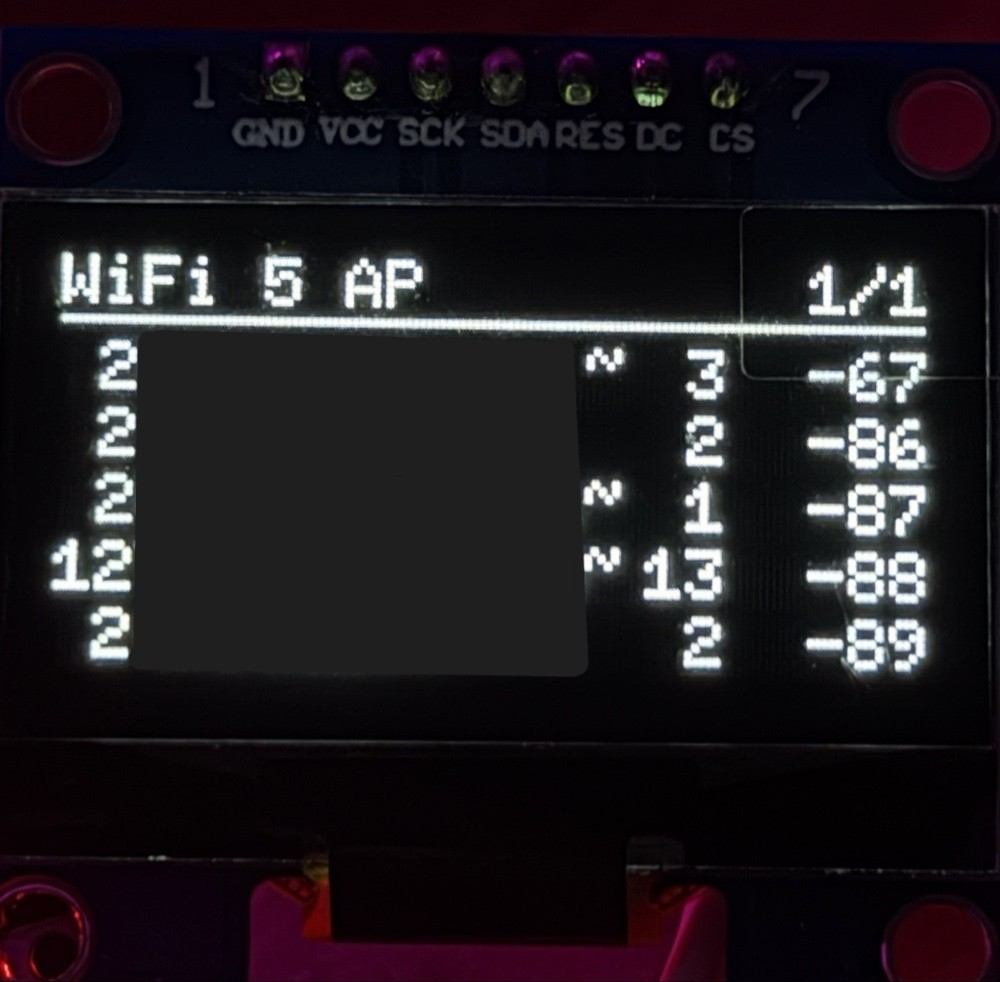
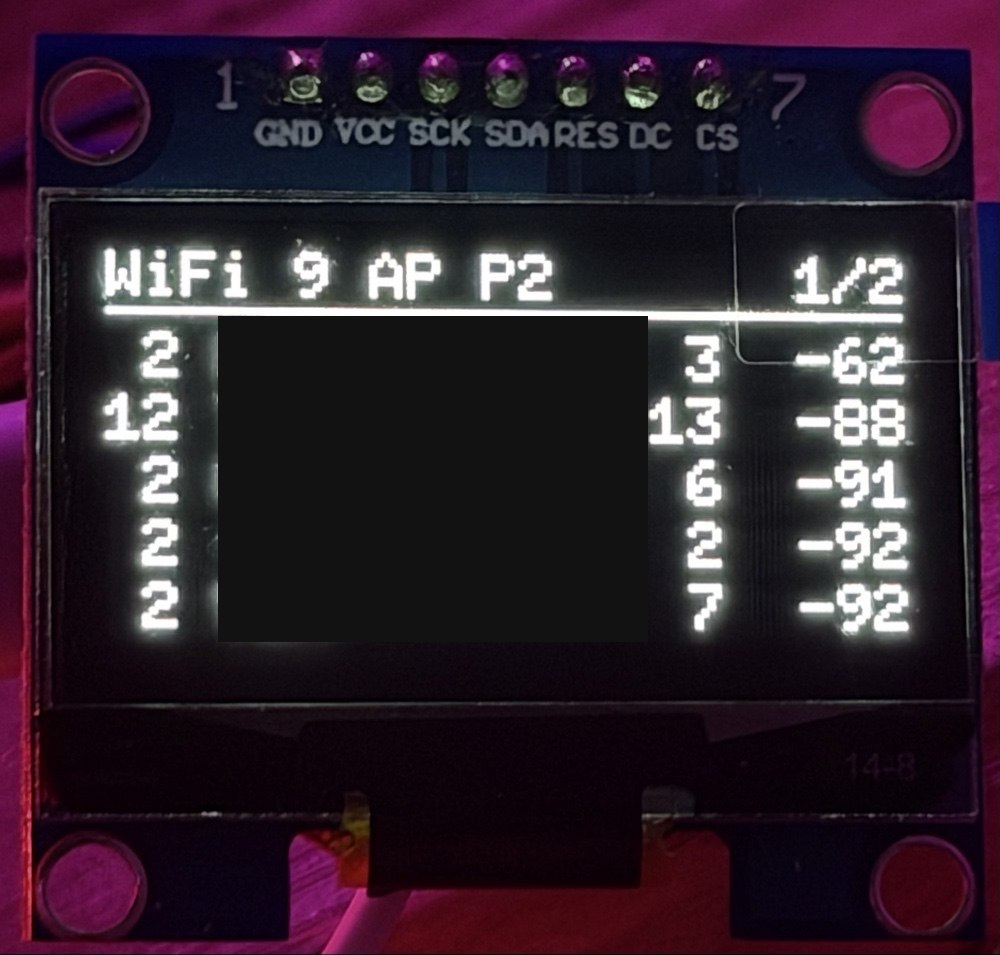
Fix a race in deauth slot evaluation and report every burst in a sweep
evaluateDeauth() read a slot's generation before its counters. If the RX
callback recycled that slot in between, the generation check passed on the
stale value while the counters were already reset, so the difference against
the previous snapshot underflowed and read as an enormous burst.

The whole slot is now copied under the spinlock, so generation and counts
come from one instant. Recycling zeroes the counters inside the same critical
section, and the plain increments on the hot path are monotonic, so they can
only raise a count, never desynchronise the pair. A second guard treats any
counter that moved backwards as a recycle, since a monotonic counter cannot
decrease on its own.

The serial output also used to mention only the last burst of a sweep while
the display marked every affected network, so the tool knew more than it
said. It now appends how many other networks had a burst in the same sweep.

Both photos in the README are updated and network names are redacted in each.
The deauth one is labelled as what it is: a test with the threshold lowered
to 1 and the author disconnecting his own phone, not an observed event.

diff --git a/promiscsource.cpp b/promiscsource.cpp
@@ -53,7 +53,8 @@ static volatile uint32_t s_disassocTotal  = 0;
 static volatile uint32_t s_broadcastTotal = 0;
 static volatile uint32_t s_recycled       = 0;   // kolikrát se slot přepsal
 
-// Zámek chrání JEN pole bssid[] ve slotech, nic jiného.
+// Zámek chrání identitu slotu a nulování jeho počítadel při recyklaci — tedy
+// vše, co se u slotu mění naráz a musí k sobě patřit.
 //
 // Šest bajtů MAC adresy se atomicky zapsat nedá, a kdyby loop() přečetlo
 // adresu uprostřed přepisu, přiřadilo by počty špatné síti — a to už není
@@ -356,16 +357,45 @@ bool PromiscSource::poll() {
 }
 
 void PromiscSource::evaluateDeauth(uint32_t now) {
-  // Identity si okopírujeme pod zámkem, počítadla mimo něj — ta jsou
-  // 32bitová a atomická, takže se přečtou celá. Kritická sekce je tak jen
-  // 12 × 6 bajtů a žádné volání uvnitř.
-  uint8_t bssids[DEAUTH_SLOTS][6];
+  // KONZISTENTNÍ SNÍMEK CELÉHO SLOTU POD ZÁMKEM.
+  //
+  // Dřív se pod zámkem braly jen adresy a počítadla se četla až mimo něj.
+  // To mělo závodní podmínku: kdyby callback mezi čtením generace a čtením
+  // počítadel slot recykloval, prošla by kontrola generace ještě se starou
+  // hodnotou, ale počítadla by se přečetla už vynulovaná. Rozdíl 0 - prev_
+  // by podtekl na obrovské číslo a vyhodnotil se jako gigantický náraz.
+  //
+  // Recyklace nuluje počítadla uvnitř kritické sekce (viz countDeauth), takže
+  // když se generace i počty přečtou taky pod zámkem, patří k sobě. Prosté
+  // inkrementy z horké cesty zámek neberou, ale ty jsou monotónní — můžou
+  // hodnotu jen zvýšit, nikdy nerozhodit dvojici generace/počet.
+  //
+  // Cena je 12 × 32 bajtů kopírování navíc: samá přiřazení a memcpy šesti
+  // bajtů, žádný cyklus s voláním uvnitř.
+  struct Snap {
+    uint8_t  bssid[6];
+    uint32_t generation;
+    uint32_t deauth;
+    uint32_t disassoc;
+    uint32_t broadcast;
+    uint16_t lastReason;
+    uint8_t  channel;
+    bool     signedAsAp;
+  };
+  Snap    snap[DEAUTH_SLOTS];
   uint8_t used;
 
   portENTER_CRITICAL(&s_slotMux);
   used = s_slotsUsed;
   for (uint8_t i = 0; i < used; i++) {
-    memcpy(bssids[i], s_slots[i].bssid, sizeof(bssids[i]));
+    memcpy(snap[i].bssid, s_slots[i].bssid, sizeof(snap[i].bssid));
+    snap[i].generation = s_slots[i].generation;
+    snap[i].deauth     = s_slots[i].deauth;
+    snap[i].disassoc   = s_slots[i].disassoc;
+    snap[i].broadcast  = s_slots[i].broadcast;
+    snap[i].lastReason = s_slots[i].lastReason;
+    snap[i].channel    = s_slots[i].channel;
+    snap[i].signedAsAp = s_slots[i].signedAsAp;
   }
   portEXIT_CRITICAL(&s_slotMux);
 
@@ -374,43 +404,51 @@ void PromiscSource::evaluateDeauth(uint32_t now) {
   nets_.clearDeauthFlags();
   burstOnRecord_ = false;
   newBurst_      = -1;
+  burstCount_    = 0;
 
   for (uint8_t i = 0; i < used; i++) {
-    const uint32_t gen = s_slots[i].generation;
-    const uint32_t de  = s_slots[i].deauth;
-    const uint32_t di  = s_slots[i].disassoc;
-    const uint32_t bc  = s_slots[i].broadcast;
+    // Pojistka nad rámec snímku: monotónní počítadlo klesnout nemůže, takže
+    // nižší hodnota než minule je jednoznačná známka, že se slot pod rukama
+    // přepsal. Rozdíl se pak nebere, aby z podtečení nevyšel falešný náraz.
+    const bool wentBackwards = (snap[i].deauth    < prev_[i].deauth)
+                            || (snap[i].disassoc  < prev_[i].disassoc)
+                            || (snap[i].broadcast < prev_[i].broadcast);
 
-    if (gen != prev_[i].generation) {
+    if (snap[i].generation != prev_[i].generation || wentBackwards) {
       // Slot mezitím dostal jiné BSSID. Předchozí hodnoty patřily někomu
       // jinému, takže se zahodí — jinak by z nich vyšel nesmyslný rozdíl.
-      prev_[i].generation = gen;
-      prev_[i].deauth     = 0;
-      prev_[i].disassoc   = 0;
-      prev_[i].broadcast  = 0;
+      prev_[i].generation = snap[i].generation;
+      prev_[i].deauth     = snap[i].deauth;
+      prev_[i].disassoc   = snap[i].disassoc;
+      prev_[i].broadcast  = snap[i].broadcast;
       prev_[i].burstAtMs  = 0;
+      continue;   // v téhle otočce se z tohohle slotu nic nevyhodnocuje
     }
 
-    const uint32_t dDeauth = de - prev_[i].deauth;
-    const uint32_t dDisas  = di - prev_[i].disassoc;
-    const uint32_t dBcast  = bc - prev_[i].broadcast;
+    const uint32_t dDeauth = snap[i].deauth    - prev_[i].deauth;
+    const uint32_t dDisas  = snap[i].disassoc  - prev_[i].disassoc;
+    const uint32_t dBcast  = snap[i].broadcast - prev_[i].broadcast;
 
-    prev_[i].deauth    = de;
-    prev_[i].disassoc  = di;
-    prev_[i].broadcast = bc;
+    prev_[i].deauth    = snap[i].deauth;
+    prev_[i].disassoc  = snap[i].disassoc;
+    prev_[i].broadcast = snap[i].broadcast;
 
     // Práh se vztahuje k jedné otočce, tedy k jednomu 250ms oknu na tom
     // kanálu. Odvození obou čísel je v config.h.
     if ((dDeauth + dDisas) >= DEAUTH_BURST_MIN || dBcast >= DEAUTH_BCAST_MIN) {
       prev_[i].burstAtMs = (now != 0) ? now : 1;   // 0 znamená "nic"
+      burstCount_++;
 
+      // Podrobnosti se nesou jen o jednom nárazu. Kolik jich v téhle otočce
+      // bylo celkem, hlásí burstCount_ — displej označí všechny dotčené sítě,
+      // takže výpis nesmí tvrdit, že byla jen jedna.
       newBurst_        = (int8_t)i;
       burstFrames_     = dDeauth + dDisas;
       burstBcast_      = dBcast;
-      burstReason_     = s_slots[i].lastReason;
-      burstChannel_    = s_slots[i].channel;
-      burstSignedAsAp_ = s_slots[i].signedAsAp;
-      memcpy(burstBssid_, bssids[i], sizeof(burstBssid_));
+      burstReason_     = snap[i].lastReason;
+      burstChannel_    = snap[i].channel;
+      burstSignedAsAp_ = snap[i].signedAsAp;
+      memcpy(burstBssid_, snap[i].bssid, sizeof(burstBssid_));
     }
 
     if (prev_[i].burstAtMs != 0 && (now - prev_[i].burstAtMs) < DEAUTH_HOLD_MS) {
@@ -418,7 +456,7 @@ void PromiscSource::evaluateDeauth(uint32_t now) {
       // Vrátí false, když už síť vypadla stárnutím ze seznamu. To je v pořádku
       // a je to vědomé: posouvat kvůli deauth rámci lastSeenMs by znamenalo
       // tvrdit, že jsme slyšeli beacon, který jsme neslyšeli.
-      nets_.setDeauthFlag(bssids[i]);
+      nets_.setDeauthFlag(snap[i].bssid);
     } else {
       prev_[i].burstAtMs = 0;
     }
@@ -509,6 +547,15 @@ void PromiscSource::updateDiagnostics() {
       "      Neextrapolujeme - kolikrat vic proletelo, nevime.\n"
       "      MAC se u deauth podvrhuje. Vime, JAKYM JMENEM je ramec podepsan,\n"
       "      ne kdo ho poslal. Znacka u site znamena DOTCENA, ne odpovedna."));
+
+    // V jedné otočce může mít náraz víc sítí. Displej označí všechny, takže
+    // výpis nesmí mlčet o tom, že podrobnosti výš patří jen jedné z nich.
+    if (burstCount_ > 1) {
+      put(snprintf(diag_ + n, sizeof(diag_) - n,
+        "\n      naraz melo v teto otocce jeste dalsich %u siti - podrobnosti"
+        " vyse patri jen jedne z nich, oznaceny jsou vsechny",
+        (unsigned)(burstCount_ - 1)));
+    }
   }
 
   if (dropsDelta > 0) {

diff --git a/promiscsource.h b/promiscsource.h
@@ -104,6 +104,7 @@ private:
   uint8_t  burstChannel_   = 0;
   bool     burstSignedAsAp_ = false;
   bool     burstOnRecord_  = false;
+  uint8_t  burstCount_     = 0;   // kolik siti melo naraz v teto otocce
 
   // Buffery jsou členské proměnné schválně: ukazatel, který status()
   // a diagnostics() vracejí, musí přežít návrat z volání. Lokální buffer

diff --git a/README.md b/README.md
@@ -12,10 +12,11 @@ out over the serial port in a wider format for debugging.
 **This tool only ever listens.** It never transmits a frame in promiscuous
 mode — no deauth, no probe requests, no injection, not even commented out.
 
-![The scanner running: five networks on one page, sorted strongest-first](docs/display.jpg)
+![The scanner running in promiscuous mode, networks sorted strongest-first](docs/display.jpg)
 
-*Network names are redacted. The fourth row reads `12` — a WPA/WPA2 mixed-mode
-network that earlier versions of this code would have reported as `2`. See
+*Network names are redacted. Promiscuous mode listening on channel 2 (`P2`), nine
+networks across two pages. The second row reads `12` — a WPA/WPA2 mixed-mode
+network, which earlier versions of this code would have reported as `2`. See
 [Reporting the weakest accepted method](#reporting-the-weakest-accepted-method).*
 
 <!-- Second photo slot: wiring. Drop the image in docs/ and uncomment:
@@ -401,6 +402,20 @@ with none to spare:
 
 - the header status changes from `P6` to `!6`, visible on every page;
 - the affected network's row is drawn inverted, when that page is showing.
+
+![The header reading exclamation-9 with the affected network's row inverted](docs/deauth.jpg)
+
+*Network names are redacted. Both markers at once: the header reads `!9` —
+promiscuous mode, currently listening on channel 9, with a deauth burst on
+record — and the row of the network named in the frames is drawn inverted. Note
+that the `9` is the channel being listened to at that moment, not the channel of
+the flagged network.*
+
+***This is a deliberate test, not a real event.*** `DEAUTH_BURST_MIN` was
+temporarily lowered from 5 to 1 and the author disconnected his own phone from
+his own network. The single disassociation frame a client sends when it leaves
+was then enough to cross the threshold. Nothing was transmitted by the tool, and
+nothing here was observed happening to anyone.
 
 The vocabulary throughout is deliberate. The tool observes a burst of deauth
 frames, which is a phenomenon and not a verdict — so the wording everywhere
